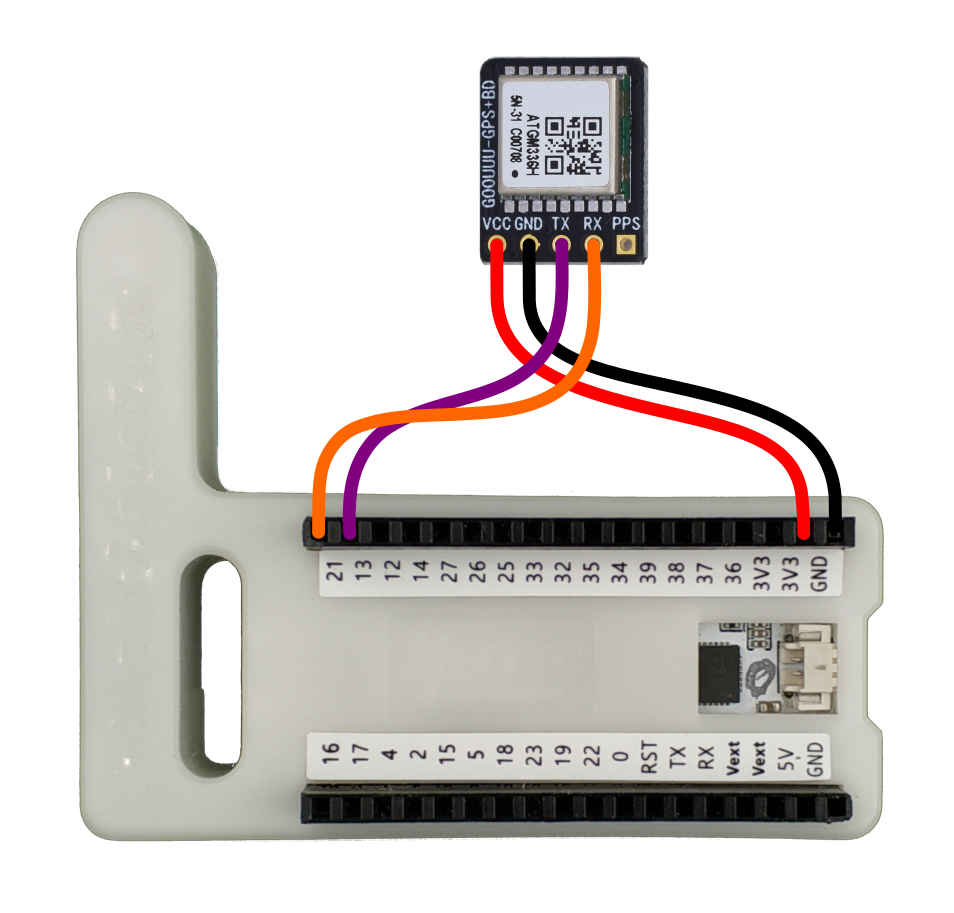
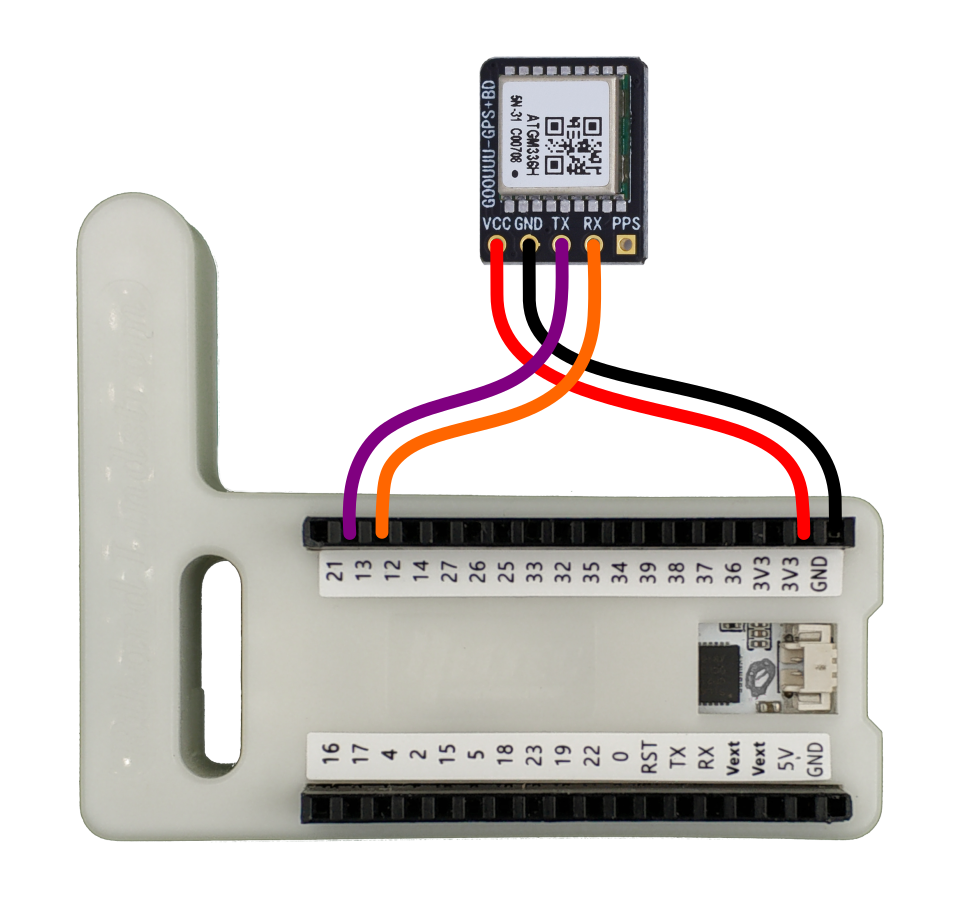
Fixed P06b keys and add payload decodder

Changed region(s): [[0.304, 0.4294, 0.5776, 0.5827]]

diff --git a/P06b TTN_MAPPER GPS/src/main.cpp b/P06b TTN_MAPPER GPS/src/main.cpp
@@ -15,15 +15,46 @@
   TX  ----- PIN 13
   RX  ----- PIN 12
   PPS No conectar
+
+  Crea un dispositivo en TTN y rellena los campos de abajo con
+  las claves correspondientes
+
+  # PAYLOAD FORMATER para TTN #
+
+  function Decoder(bytes, port) {
+    var decoded = {};
+
+    decoded.latitude = ((bytes[0]<<16)>>>0) + ((bytes[1]<<8)>>>0) + bytes[2];
+    decoded.latitude = (decoded.latitude / 16777215.0 * 180) - 90;
+  
+    decoded.longitude = ((bytes[3]<<16)>>>0) + ((bytes[4]<<8)>>>0) + bytes[5];
+    decoded.longitude = (decoded.longitude / 16777215.0 * 360) - 180;
+  
+    var altValue = ((bytes[6]<<8)>>>0) + bytes[7];
+    var sign = bytes[6] & (1 << 7);
+    if(sign)
+    {
+        decoded.altitude = 0xFFFF0000 | altValue;
+    }
+    else
+    {
+        decoded.altitude = altValue;
+    }
+  
+    decoded.hdop = bytes[8] / 10.0;
+
+    return decoded;
+  }
+
 *******************************************************************************/
 #include <Arduino.h>
 #include <TTN_esp32.h> //https://github.com/rgot-org/TheThingsNetwork_esp32
 #include "gps.h"
 #include "oled.h"
 
-const char* devEui = "XXXXXXXXXXXXXXXX"; // Rellena con el Device EUI de TTN
-const char* appEui = "XXXXXXXXXXXXXXXX"; // Rellena con el Application EUI de TTN
-const char* appKey = "XXXXXXXXXXXXXXXXXXXXXXXXXXXXXXX"; // Rellena con la Application Key de TTN
+const char *devAddr = "XXXXXXX";                          // Rellena con el Device Address de TTN
+const char *nwkSKey = "XXXXXXXXXXXXXXXXXXXXXXXXXXXXXXXX"; // Rellena con la Network Session Key de TTN
+const char *appSKey = "XXXXXXXXXXXXXXXXXXXXXXXXXXXXXXXX"; // Rellena con la Application Session Key de TTN
 
 TTN_esp32 ttn;
 uint8_t txBuffer[9];
